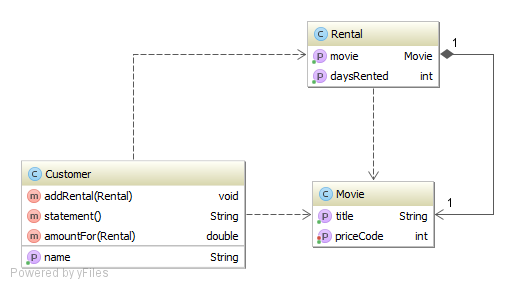
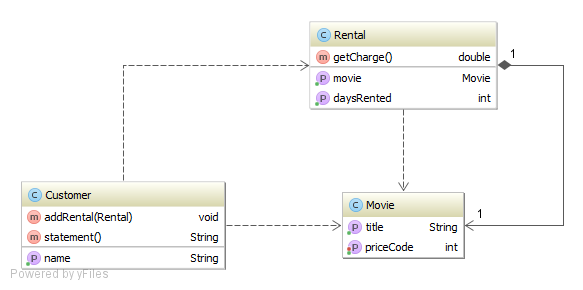
Step 2: Move method Customer.amoutFor(Rental) to Rental.getCharge().

Changed region(s): [[0.0, 0.0623, 0.9669, 0.9654]]

diff --git a/src/Customer.java b/src/Customer.java
@@ -28,7 +28,7 @@ class Customer {
             double thisAmount = 0;
             Rental each = (Rental) enum_rentals.nextElement();
             //determine amounts for each line
-            thisAmount = amountFor(each);
+            thisAmount = each.getCharge();
             // add frequent renter points
             frequentRenterPoints++;
             // add bonus for a two day new release rental
@@ -41,26 +41,6 @@ class Customer {
         //add footer lines
         result += "Amount owed is " + String.valueOf(totalAmount) + "\n";
         result += "You earned " + String.valueOf(frequentRenterPoints) + " frequent renter points";
-        return result;
-    }
-
-    private double amountFor(Rental aRental) {
-        double result = 0;
-        switch (aRental.getMovie().getPriceCode()) {
-            case Movie.REGULAR:
-                result += 2;
-                if (aRental.getDaysRented() > 2)
-                    result += (aRental.getDaysRented() - 2) * 1.5;
-                break;
-            case Movie.NEW_RELEASE:
-                result += aRental.getDaysRented() * 3;
-                break;
-            case Movie.CHILDRENS:
-                result += 1.5;
-                if (aRental.getDaysRented() > 3)
-                    result += (aRental.getDaysRented() - 3) * 1.5;
-                break;
-        }
         return result;
     }
 }

diff --git a/src/Rental.java b/src/Rental.java
@@ -14,4 +14,24 @@ class Rental {
     public Movie getMovie() {
         return movie;
     }
+
+    double getCharge() {
+        double result = 0;
+        switch (getMovie().getPriceCode()) {
+            case Movie.REGULAR:
+                result += 2;
+                if (getDaysRented() > 2)
+                    result += (getDaysRented() - 2) * 1.5;
+                break;
+            case Movie.NEW_RELEASE:
+                result += getDaysRented() * 3;
+                break;
+            case Movie.CHILDRENS:
+                result += 1.5;
+                if (getDaysRented() > 3)
+                    result += (getDaysRented() - 3) * 1.5;
+                break;
+        }
+        return result;
+    }
 }
